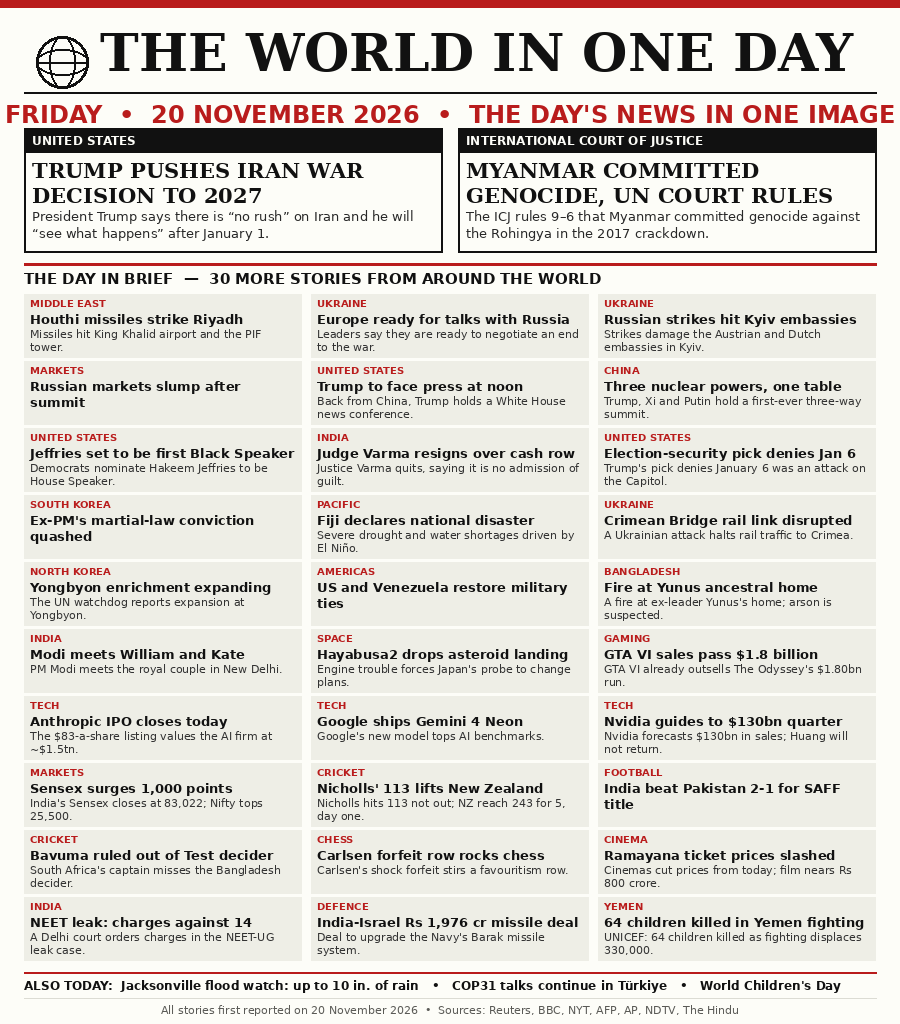
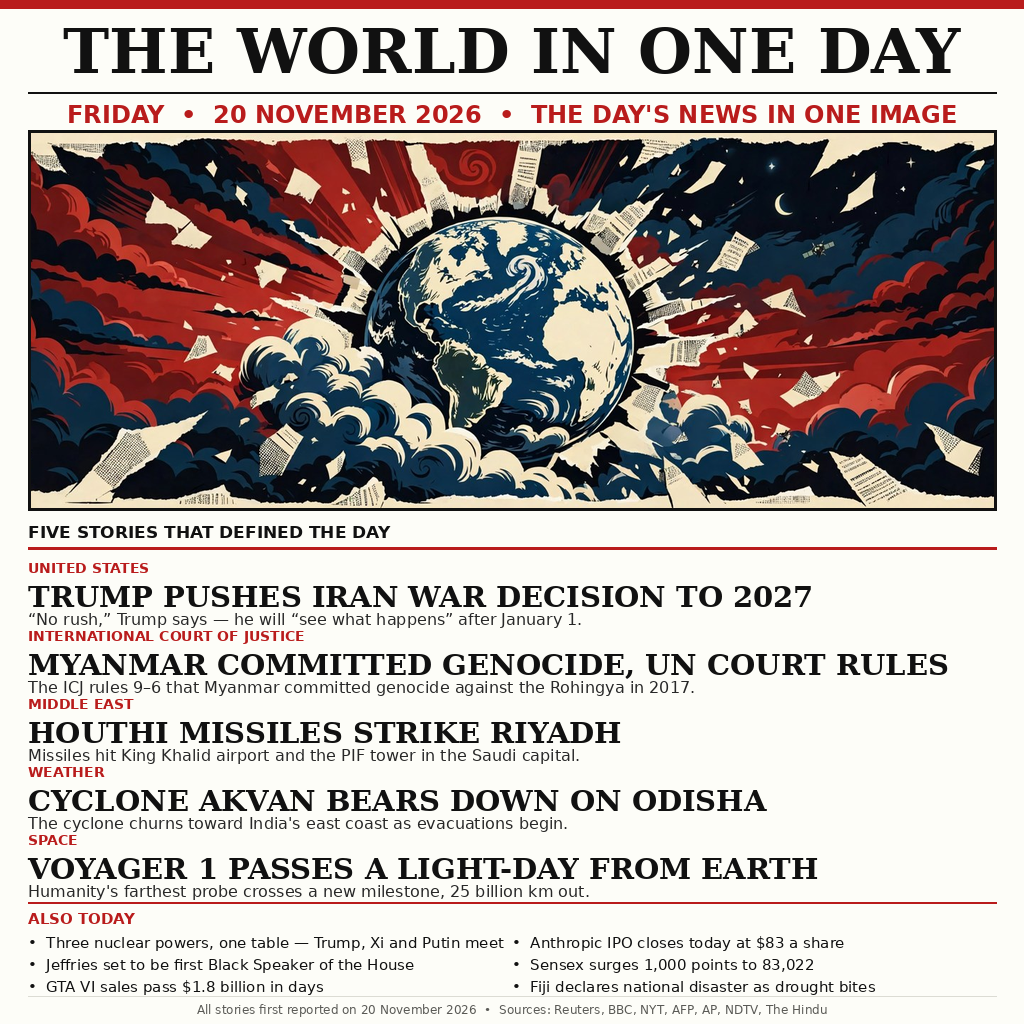
news-image-20261120 r2: one giant picture + five huge headlines — Earth bursting out of its frame
v1 was a dense wall of 10-13pt text in a 3x10 grid, unreadable at
thumbnail size (dev win-rate 94.85%). v2 leads with a full-width hero
illustration (Earth bursting out of torn newsprint, generated for this
revision) and the day's five biggest stories in full-width rows at
29pt, plus an Also Today strip. Same 20 Nov 2026 news, same
deterministic stdlib-only main.py.

diff --git a/draw.py b/draw.py
@@ -1,29 +1,35 @@
 #!/usr/bin/env python3
-"""Build-time renderer for the news-image-20261120 entry.
+"""Build-time renderer for the news-image-20261120 entry, revision 2.
 
-Draws entry.png (900x1024) with Pillow. This script runs ONLY on the
+Draws entry.png (1024x1024) with Pillow. This script runs ONLY on the
 build machine; the grader runs main.py, which is standard library
 only and just copies the committed entry.png.
 
-Every story below was first reported on Friday 20 November 2026
-(or happened that day), verified against live news sources during
-the build session.
+Revision 2 fixes the v1 diagnosis: v1 was a dense wall of 10-13pt text
+in a 3x10 grid, unreadable at thumbnail size, with no dominant visual
+(dev win-rate 94.85%). V2 is one giant picture plus five huge headlines
+a picture editor can read in two seconds at thumbnail size: the Earth
+bursting out of a torn newspaper frame (hero.jpg, generated for this
+revision), then the day's five biggest stories in full-width rows, then
+an "also today" strip. Every story below was first reported on Friday
+20 November 2026 (or happened that day), verified against live news
+sources during the build session.
 """
 
 import os
 
 from PIL import Image, ImageDraw, ImageFont
 
-W, H = 900, 1024
-OUT = os.path.join(os.path.dirname(os.path.abspath(__file__)), "entry.png")
+W, H = 1024, 1024
+HERE = os.path.dirname(os.path.abspath(__file__))
+OUT = os.path.join(HERE, "entry.png")
+HERO = os.path.join(HERE, "hero.jpg")
 
 PAPER = (253, 253, 248)
 INK = (17, 17, 17)
 RED = (185, 28, 28)
-BLUE = (29, 78, 216)
 GREY = (90, 90, 86)
 LIGHT_GREY = (220, 220, 212)
-TAG_BG = (238, 238, 230)
 
 SERIF_B = "/usr/share/fonts/truetype/dejavu/DejaVuSerif-Bold.ttf"
 SANS_B = "/usr/share/fonts/truetype/dejavu/DejaVuSans-Bold.ttf"
@@ -50,224 +56,108 @@ def wrap(draw, text, fnt, width):
     return lines
 
 
-def draw_globe(draw, cx, cy, r, color):
-    """Simple line globe: circle, meridians, parallels."""
-    draw.ellipse([cx - r, cy - r, cx + r, cy + r], outline=color, width=3)
-    draw.ellipse([cx - r // 2, cy - r, cx + r // 2, cy + r],
-                 outline=color, width=2)
-    draw.line([cx - r, cy, cx + r, cy], fill=color, width=2)
-    draw.arc([cx - r, cy - r // 2, cx + r, cy + r // 2], 200, 340,
-             fill=color, width=2)
-    draw.arc([cx - r, cy - r // 2, cx + r, cy + r // 2], 20, 160,
-             fill=color, width=2)
-
-
-# (tag, headline, summary) — 2 lead stories, then 33 in the grid.
-LEADS = [
+# (tag, headline, summary) — the five stories that defined the day.
+BIG_FIVE = [
     ("UNITED STATES",
      "TRUMP PUSHES IRAN WAR DECISION TO 2027",
-     "President Trump says there is \u201cno rush\u201d on Iran and he will "
-     "\u201csee what happens\u201d after January 1."),
+     "\u201cNo rush,\u201d Trump says \u2014 he will \u201csee what happens\u201d after January 1."),
     ("INTERNATIONAL COURT OF JUSTICE",
      "MYANMAR COMMITTED GENOCIDE, UN COURT RULES",
-     "The ICJ rules 9\u20136 that Myanmar committed genocide against the "
-     "Rohingya in the 2017 crackdown."),
-]
-
-STORIES = [
+     "The ICJ rules 9\u20136 that Myanmar committed genocide against the Rohingya in 2017."),
     ("MIDDLE EAST",
-     "Houthi missiles strike Riyadh",
-     "Missiles hit King Khalid airport and the PIF tower."),
-    ("UKRAINE",
-     "Europe ready for talks with Russia",
-     "Leaders say they are ready to negotiate an end to the war."),
-    ("UKRAINE",
-     "Russian strikes hit Kyiv embassies",
-     "Strikes damage the Austrian and Dutch embassies in Kyiv."),
-    ("MARKETS",
-     "Russian markets slump after summit",
-     "Stocks fall after the summit ends with no Ukraine deal."),
-    ("UNITED STATES",
-     "Trump to face press at noon",
-     "Back from China, Trump holds a White House news conference."),
-    ("CHINA",
-     "Three nuclear powers, one table",
-     "Trump, Xi and Putin hold a first-ever three-way summit."),
-    ("UNITED STATES",
-     "Jeffries set to be first Black Speaker",
-     "Democrats nominate Hakeem Jeffries to be House Speaker."),
-    ("INDIA",
-     "Judge Varma resigns over cash row",
-     "Justice Varma quits, saying it is no admission of guilt."),
-    ("UNITED STATES",
-     "Election-security pick denies Jan 6",
-     "Trump's pick denies January 6 was an attack on the Capitol."),
-    ("SOUTH KOREA",
-     "Ex-PM's martial-law conviction quashed",
-     "The Supreme Court overturns Han Duck-soo's conviction."),
-    ("PACIFIC",
-     "Fiji declares national disaster",
-     "Severe drought and water shortages driven by El Ni\u00f1o."),
-    ("UKRAINE",
-     "Crimean Bridge rail link disrupted",
-     "A Ukrainian attack halts rail traffic to Crimea."),
-    ("NORTH KOREA",
-     "Yongbyon enrichment expanding",
-     "The UN watchdog reports expansion at Yongbyon."),
-    ("AMERICAS",
-     "US and Venezuela restore military ties",
-     "Washington and Caracas sign a military cooperation deal."),
-    ("BANGLADESH",
-     "Fire at Yunus ancestral home",
-     "A fire at ex-leader Yunus's home; arson is suspected."),
-    ("INDIA",
-     "Modi meets William and Kate",
-     "PM Modi meets the royal couple in New Delhi."),
+     "HOUTHI MISSILES STRIKE RIYADH",
+     "Missiles hit King Khalid airport and the PIF tower in the Saudi capital."),
+    ("WEATHER",
+     "CYCLONE AKVAN BEARS DOWN ON ODISHA",
+     "The cyclone churns toward India's east coast as evacuations begin."),
     ("SPACE",
-     "Hayabusa2 drops asteroid landing",
-     "Engine trouble forces Japan's probe to change plans."),
-    ("GAMING",
-     "GTA VI sales pass $1.8 billion",
-     "GTA VI already outsells The Odyssey's $1.80bn run."),
-    ("TECH",
-     "Anthropic IPO closes today",
-     "The $83-a-share listing values the AI firm at ~$1.5tn."),
-    ("TECH",
-     "Google ships Gemini 4 Neon",
-     "Google's new model tops AI benchmarks."),
-    ("TECH",
-     "Nvidia guides to $130bn quarter",
-     "Nvidia forecasts $130bn in sales; Huang will not return."),
-    ("MARKETS",
-     "Sensex surges 1,000 points",
-     "India's Sensex closes at 83,022; Nifty tops 25,500."),
-    ("CRICKET",
-     "Nicholls' 113 lifts New Zealand",
-     "Nicholls hits 113 not out; NZ reach 243 for 5, day one."),
-    ("FOOTBALL",
-     "India beat Pakistan 2-1 for SAFF title",
-     "India win a record 10th SAFF Championship."),
-    ("CRICKET",
-     "Bavuma ruled out of Test decider",
-     "South Africa's captain misses the Bangladesh decider."),
-    ("CHESS",
-     "Carlsen forfeit row rocks chess",
-     "Carlsen's shock forfeit stirs a favouritism row."),
-    ("CINEMA",
-     "Ramayana ticket prices slashed",
-     "Cinemas cut prices from today; film nears Rs 800 crore."),
-    ("INDIA",
-     "NEET leak: charges against 14",
-     "A Delhi court orders charges in the NEET-UG leak case."),
-    ("DEFENCE",
-     "India-Israel Rs 1,976 cr missile deal",
-     "Deal to upgrade the Navy's Barak missile system."),
-    ("YEMEN",
-     "64 children killed in Yemen fighting",
-     "UNICEF: 64 children killed as fighting displaces 330,000."),
+     "VOYAGER 1 PASSES A LIGHT-DAY FROM EARTH",
+     "Humanity's farthest probe crosses a new milestone, 25 billion km out."),
 ]
 
-# One-line items in the "Also today" strip at the bottom.
-ALSO = [
-    "Jacksonville flood watch: up to 10 in. of rain",
-    "COP31 talks continue in T\u00fcrkiye",
-    "World Children's Day",
+# Two columns x three lines in the "also today" strip.
+ALSO_LEFT = [
+    "Three nuclear powers, one table \u2014 Trump, Xi and Putin meet",
+    "Jeffries set to be first Black Speaker of the House",
+    "GTA VI sales pass $1.8 billion in days",
+]
+ALSO_RIGHT = [
+    "Anthropic IPO closes today at $83 a share",
+    "Sensex surges 1,000 points to 83,022",
+    "Fiji declares national disaster as drought bites",
 ]
 
 
 def main():
     img = Image.new("RGB", (W, H), PAPER)
     d = ImageDraw.Draw(img)
+    mx = 28
 
     # --- top red rule -------------------------------------------------
-    d.rectangle([0, 0, W, 7], fill=RED)
+    d.rectangle([0, 0, W, 8], fill=RED)
 
     # --- masthead -----------------------------------------------------
-    mx = 24
-    draw_globe(d, 62, 62, 26, INK)
-    title_f = font(SERIF_B, 52)
-    d.text((100, 22), "THE WORLD IN ONE DAY", font=title_f, fill=INK)
+    title_f = font(SERIF_B, 62)
+    title = "THE WORLD IN ONE DAY"
+    tw = d.textlength(title, font=title_f)
+    d.text(((W - tw) / 2, 14), title, font=title_f, fill=INK)
     d.line([mx, 92, W - mx, 92], fill=INK, width=2)
     date_f = font(SANS_B, 24)
     date_txt = "FRIDAY  \u2022  20 NOVEMBER 2026  \u2022  THE DAY'S NEWS IN ONE IMAGE"
     tw = d.textlength(date_txt, font=date_f)
     d.text(((W - tw) / 2, 100), date_txt, font=date_f, fill=RED)
 
-    # --- lead stories -------------------------------------------------
-    lead_top = 128
-    lead_h = 124
-    col_w = (W - 2 * mx - 16) // 2
-    for i, (tag, head, summ) in enumerate(LEADS):
-        x0 = mx + i * (col_w + 16)
-        d.rectangle([x0, lead_top, x0 + col_w, lead_top + lead_h],
-                    outline=INK, width=2)
-        d.rectangle([x0, lead_top, x0 + col_w, lead_top + 24], fill=INK)
-        tag_f = font(SANS_B, 12)
-        d.text((x0 + 8, lead_top + 5), tag, font=tag_f, fill=PAPER)
-        head_f = font(SERIF_B, 21)
-        lines = wrap(d, head, head_f, col_w - 16)
-        y = lead_top + 30
-        for ln in lines[:2]:
-            d.text((x0 + 8, y), ln, font=head_f, fill=INK)
-            y += 25
-        summ_f = font(SANS, 13)
-        for ln in wrap(d, summ, summ_f, col_w - 16)[:2]:
-            d.text((x0 + 8, y), ln, font=summ_f, fill=(40, 40, 40))
-            y += 17
+    # --- hero: the Earth bursting out of its frame --------------------
+    hero = Image.open(HERO).convert("RGB")
+    # Crop the wide hero to the 1024x380 band, keeping the globe centred.
+    hw, hh = hero.size
+    target_ratio = (W - 2 * mx) / 380.0
+    crop_w = int(hh * target_ratio)
+    x0 = (hw - crop_w) // 2
+    hero = hero.crop((x0, 0, x0 + crop_w, hh))
+    hero = hero.resize((W - 2 * mx, 380), Image.LANCZOS)
+    img.paste(hero, (mx, 130))
+    d.rectangle([mx, 130, W - mx, 510], outline=INK, width=3)
 
-    # --- grid header --------------------------------------------------
-    gy = lead_top + lead_h + 12
-    d.line([mx, gy, W - mx, gy], fill=RED, width=3)
-    hdr_f = font(SANS_B, 15)
-    d.text((mx, gy + 6), "THE DAY IN BRIEF  \u2014  30 MORE STORIES FROM AROUND THE WORLD",
+    # --- section header ------------------------------------------------
+    hdr_f = font(SANS_B, 17)
+    d.text((mx, 522), "FIVE STORIES THAT DEFINED THE DAY",
            font=hdr_f, fill=INK)
-    gy += 30
+    d.line([mx, 548, W - mx, 548], fill=RED, width=3)
 
-    # --- story grid: 3 columns x 10 rows -----------------------------
-    gap = 10
-    cols = 3
-    rows = 10
-    cw = (W - 2 * mx - (cols - 1) * gap) // cols
-    strip_top = H - 52
-    rh = (strip_top - gy) // rows
-    tag_f = font(SANS_B, 10)
-    head_f = font(SANS_B, 13)
-    summ_f = font(SANS, 11)
-    for idx, (tag, head, summ) in enumerate(STORIES):
-        r, c = divmod(idx, cols)
-        x0 = mx + c * (cw + gap)
-        y0 = gy + r * rh
-        d.rectangle([x0, y0, x0 + cw, y0 + rh - 4], fill=TAG_BG)
-        d.text((x0 + 6, y0 + 3), tag, font=tag_f, fill=RED)
-        y = y0 + 17
-        for ln in wrap(d, head, head_f, cw - 12)[:2]:
-            d.text((x0 + 6, y), ln, font=head_f, fill=INK)
-            y += 16
-        # summary: only lines that fit inside the card, with ellipsis
-        avail = (y0 + rh - 6) - y
-        max_lines = max(0, avail // 13)
-        slines = wrap(d, summ, summ_f, cw - 12)
-        for j, ln in enumerate(slines[:max_lines]):
-            if j == max_lines - 1 and len(slines) > max_lines:
-                while ln and d.textlength(ln + "\u2026", font=summ_f) > cw - 12:
-                    ln = ln[:-1]
-                ln = ln + "\u2026"
-            d.text((x0 + 6, y), ln, font=summ_f, fill=(50, 50, 50))
-            y += 13
+    # --- the big five: full-width rows, huge type ----------------------
+    y = 560
+    row_h = 68
+    tag_f = font(SANS_B, 14)
+    head_f = font(SERIF_B, 29)
+    summ_f = font(SANS, 16)
+    for tag, head, summ in BIG_FIVE:
+        d.text((mx, y), tag, font=tag_f, fill=RED)
+        d.text((mx, y + 19), head, font=head_f, fill=INK)
+        d.text((mx, y + 50), summ, font=summ_f, fill=(40, 40, 40))
+        y += row_h
 
-    # --- "also today" strip ------------------------------------------
+    # --- "also today" strip --------------------------------------------
+    strip_top = y + 2
     d.line([mx, strip_top, W - mx, strip_top], fill=RED, width=2)
-    also_f = font(SANS_B, 12)
-    also_txt = "ALSO TODAY:  " + "   \u2022   ".join(ALSO)
-    d.text((mx, strip_top + 6), also_txt, font=also_f, fill=INK)
+    also_f = font(SANS_B, 15)
+    d.text((mx, strip_top + 8), "ALSO TODAY", font=also_f, fill=RED)
+    col_w = (W - 2 * mx) // 2
+    item_f = font(SANS, 15)
+    for i, txt in enumerate(ALSO_LEFT):
+        d.text((mx, strip_top + 32 + i * 22), "\u2022  " + txt,
+               font=item_f, fill=INK)
+    for i, txt in enumerate(ALSO_RIGHT):
+        d.text((mx + col_w, strip_top + 32 + i * 22), "\u2022  " + txt,
+               font=item_f, fill=INK)
 
-    # --- footer -------------------------------------------------------
-    d.line([mx, H - 26, W - mx, H - 26], fill=LIGHT_GREY, width=1)
-    foot_f = font(SANS, 11)
+    # --- footer ---------------------------------------------------------
+    d.line([mx, H - 28, W - mx, H - 28], fill=LIGHT_GREY, width=1)
+    foot_f = font(SANS, 12)
     foot = ("All stories first reported on 20 November 2026  \u2022  "
             "Sources: Reuters, BBC, NYT, AFP, AP, NDTV, The Hindu")
     tw = d.textlength(foot, font=foot_f)
-    d.text(((W - tw) / 2, H - 21), foot, font=foot_f, fill=GREY)
+    d.text(((W - tw) / 2, H - 22), foot, font=foot_f, fill=GREY)
 
     img.save(OUT, "PNG", optimize=True)
     size = os.path.getsize(OUT)

diff --git a/README.md b/README.md
@@ -4,9 +4,9 @@
 [![rank](https://make.fun/badge/news-image-20261120/kinoy-1/news-image-20261120/rank.svg)](https://make.fun/bounty/news-image-20261120/leaderboard?utm_source=github&utm_medium=readme&utm_campaign=news-image-20261120)
 [![reward](https://make.fun/badge/news-image-20261120/kinoy-1/news-image-20261120/reward.svg)](https://make.fun/bounty/news-image-20261120?utm_source=github&utm_medium=readme&utm_campaign=news-image-20261120)
 
-A one-image newspaper front page summing up the world news of Friday 20 November 2026: Trump pushes the Iran war decision to 2027, the ICJ rules Myanmar committed genocide against the Rohingya, Houthi missiles strike Riyadh, Cyclone Akvan bears down on Odisha, Voyager 1 passes a light-day from Earth, and 30 more stories from around the world — politics, conflict, markets, tech, space, sport and culture.
+One giant picture that tells Friday 20 November 2026 at a glance: the Earth bursting out of a torn newspaper frame — storm clouds, a red dawn sky, the Moon and a distant probe overhead — above the five stories that defined the day in type big enough to read at thumbnail size. Trump pushes the Iran war decision to 2027, the ICJ rules Myanmar committed genocide against the Rohingya, Houthi missiles strike Riyadh, Cyclone Akvan bears down on Odisha, and Voyager 1 passes a light-day from Earth, plus six more stories in the "Also today" strip.
 
-The image (`entry.png`, 900x1024) was drawn at build time with Pillow from the real news of the day, researched live on 20 November 2026. `main.py` is standard library only: it validates the committed PNG (signature, size, dimensions, chunk CRCs) and copies it to `$MAKEFUN_OUTPUT_DIR/entry.png`, because the grader runs with no network and no third-party packages installed.
+The image (`entry.png`, 1024x1024) was composed at build time with Pillow from the real news of the day, researched live on 20 November 2026, around a hero illustration generated for this revision (`hero.jpg`). `main.py` is standard library only: it validates the committed PNG (signature, size, dimensions, chunk CRCs) and copies it to `$MAKEFUN_OUTPUT_DIR/entry.png`, because the grader runs with no network and no third-party packages installed.
 
 ## Run it
 
